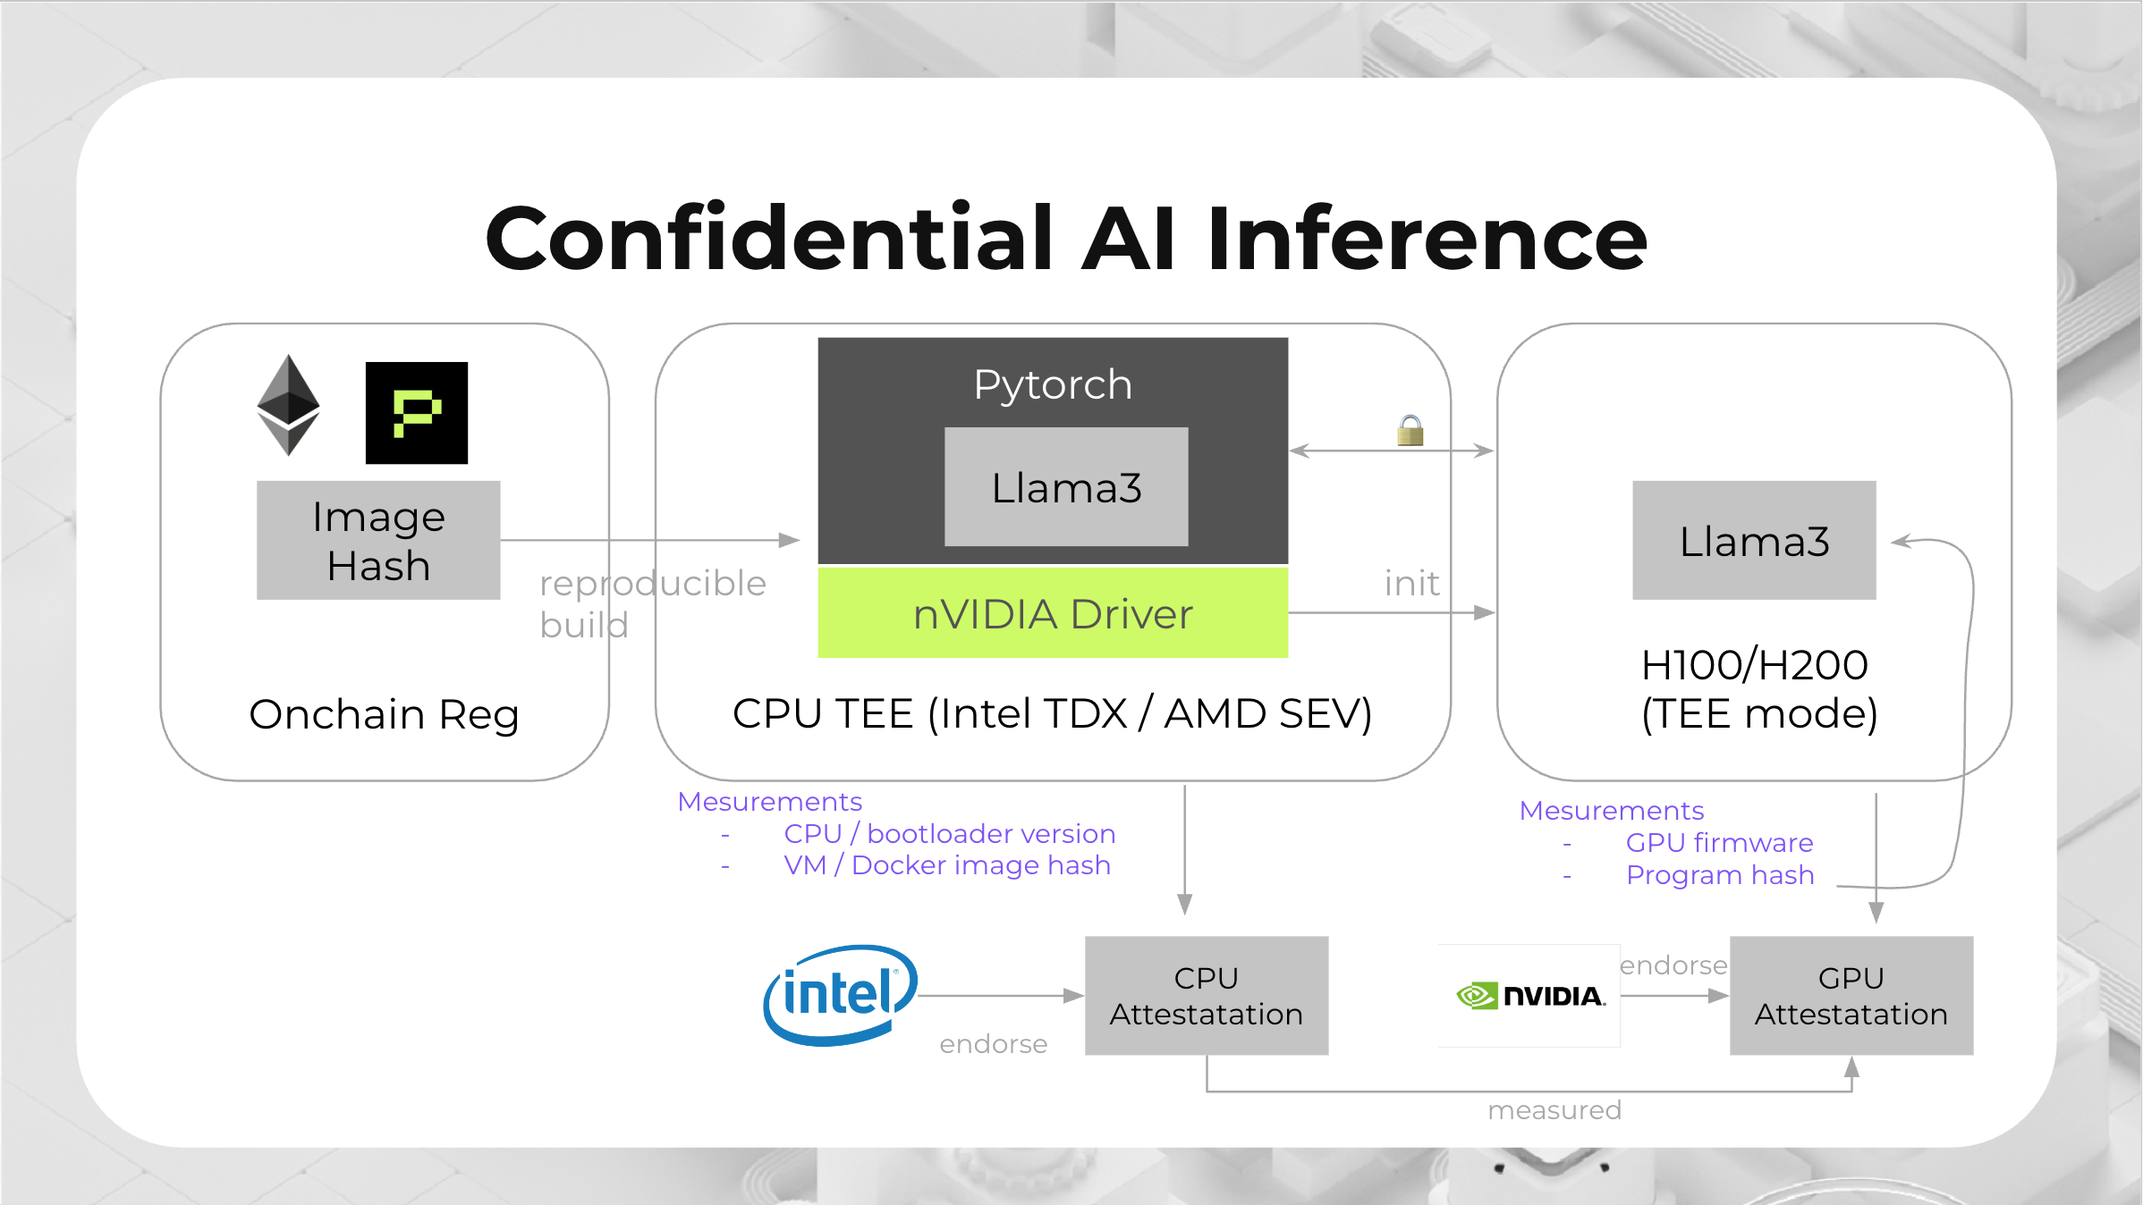
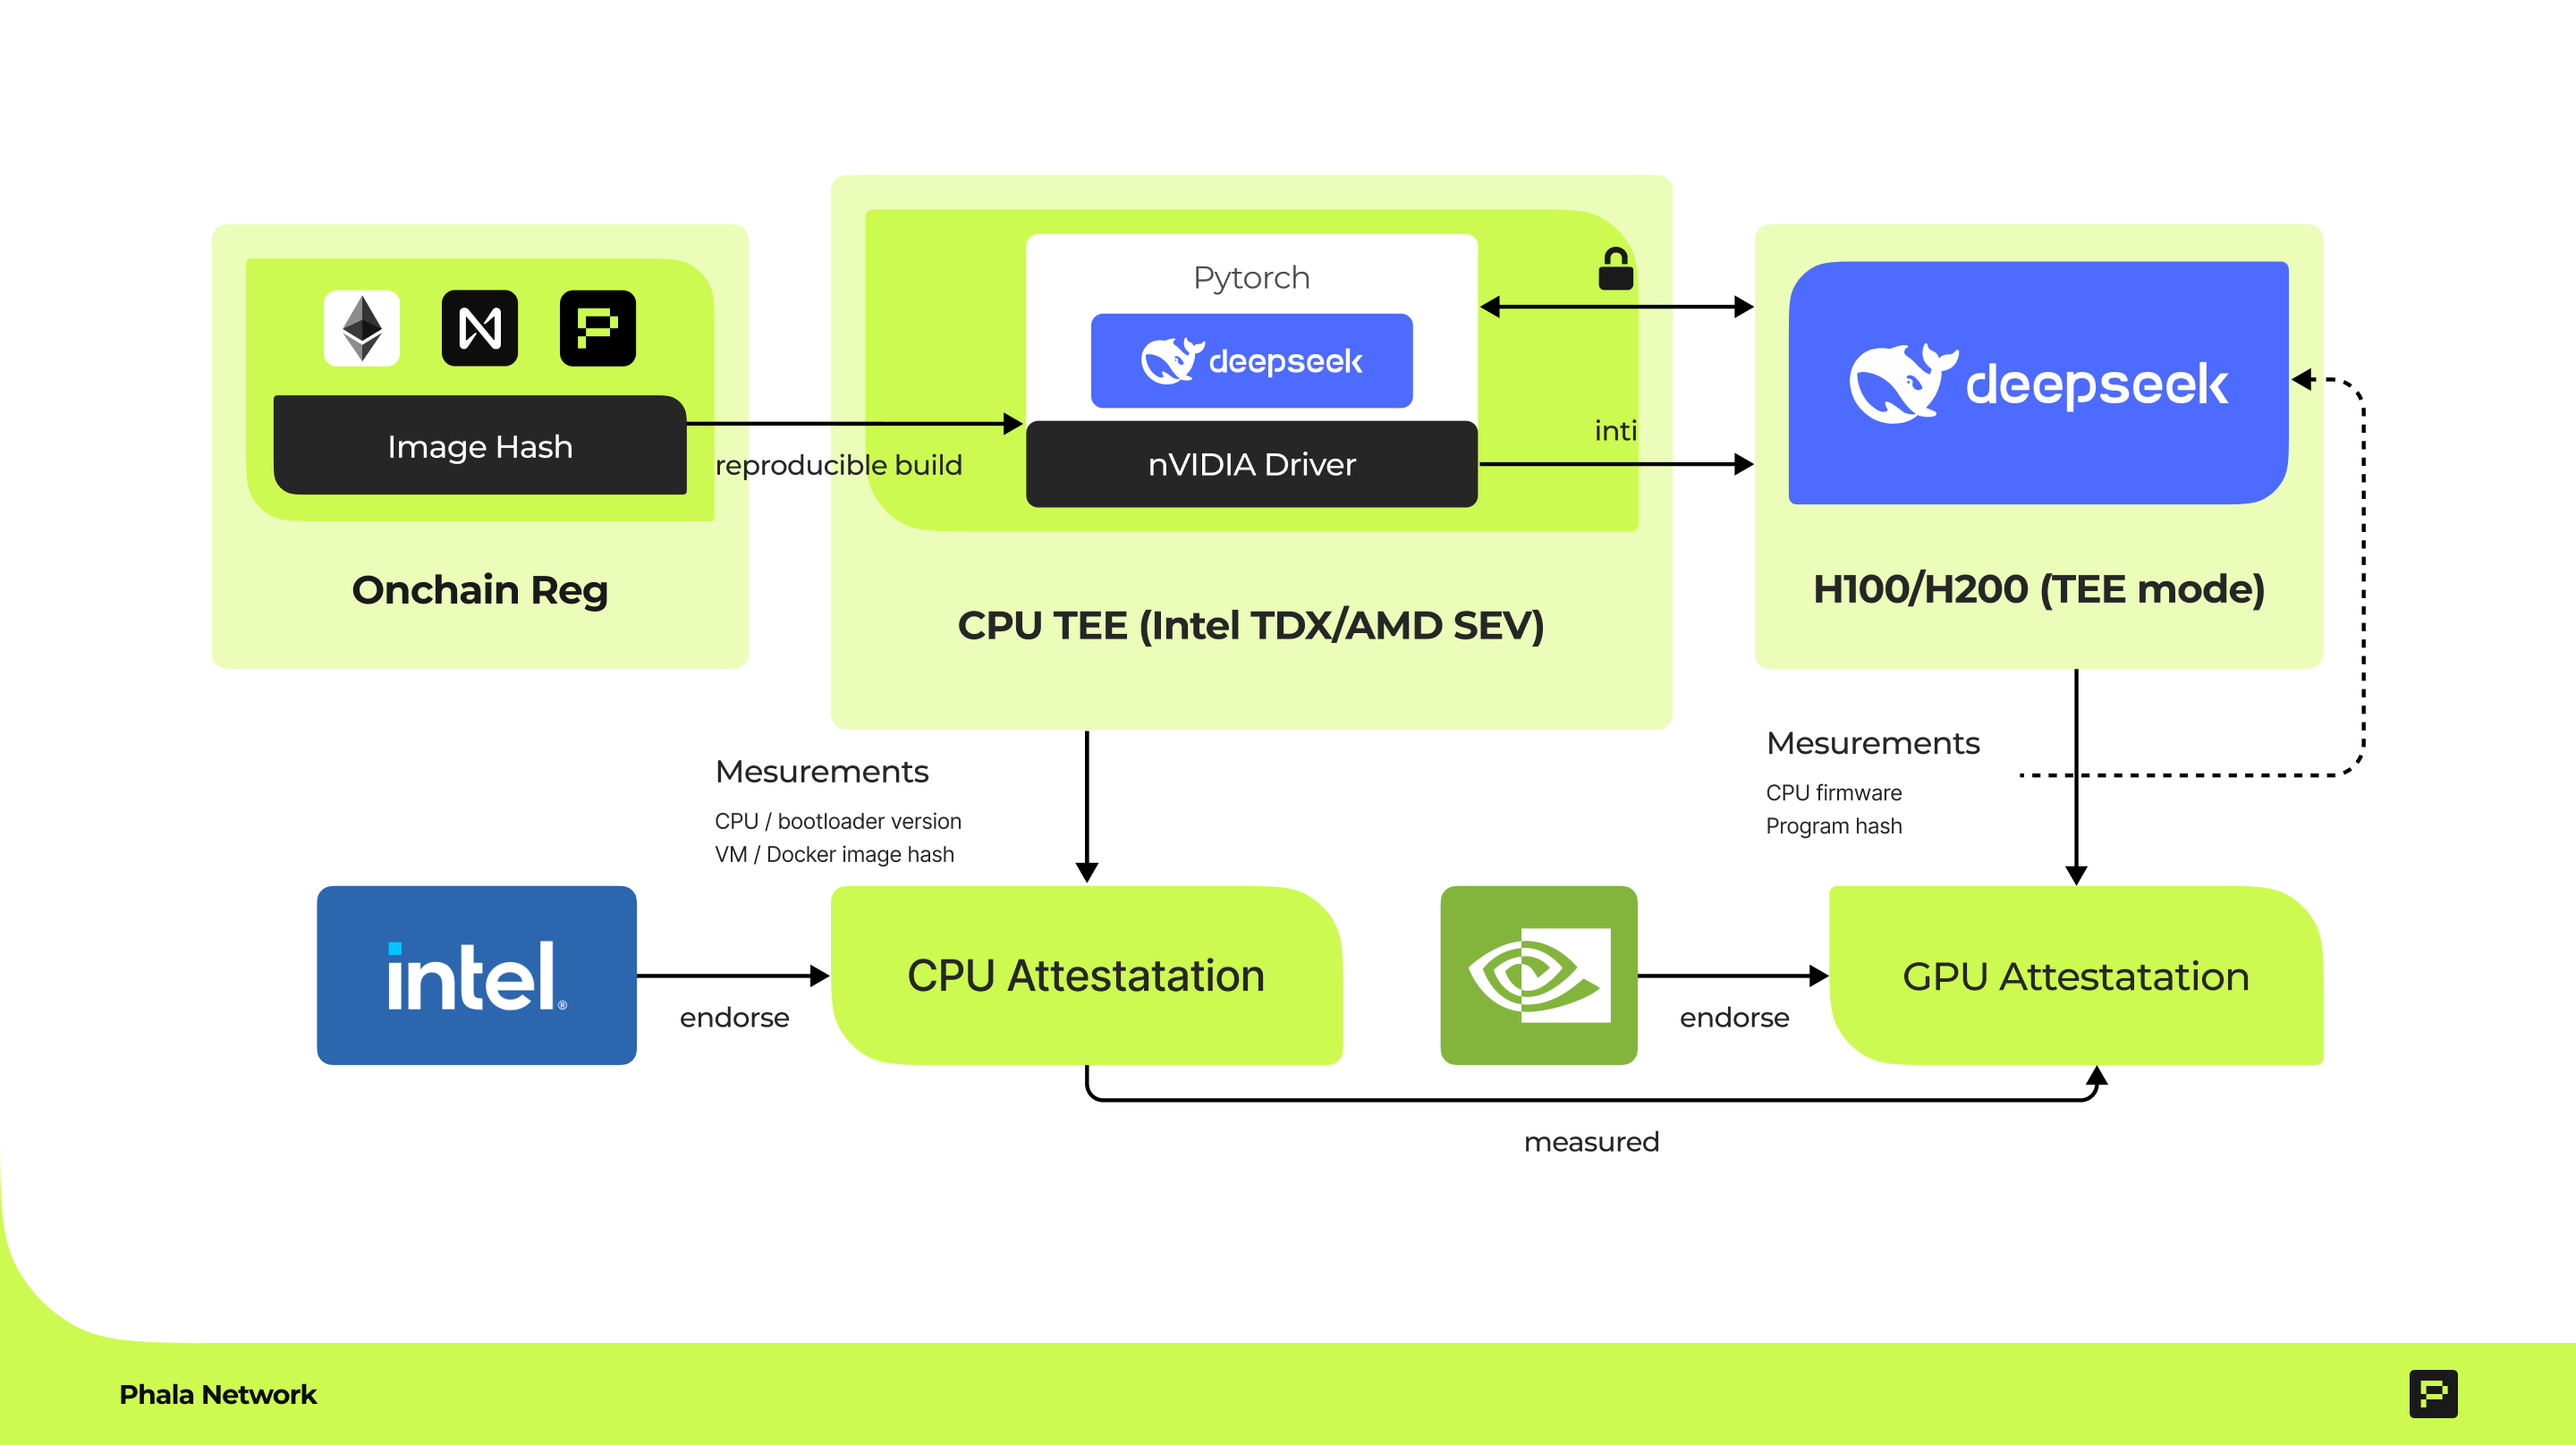
update

diff --git a/overview/phala-network/gpu-tee.md b/overview/phala-network/gpu-tee.md
@@ -12,7 +12,7 @@ TEE as a general hardware-based confidential computation infrastructure can offe
 - Verification using TEEs is also more economical compared to ZKPs. An ECDSA signature suffices for on-chain verification, reducing the complexity and cost of ensuring computation integrity.
 - Native Support by NVIDIA in the series of GPUs such as H100 and H200 natively support TEEs, providing hardware-accelerated secure environments for AI workloads. This native support ensures seamless integration and optimized performance for AI fine-tuning and inference.
 
-<figure><img src="../.gitbook/assets/confidential-ai-inference-overview.png" alt=""><figcaption></figcaption></figure>
+<figure><img src="../../.gitbook/assets/confidential-ai-inference-overview.png" alt=""><figcaption></figcaption></figure>
 
 Our TEE-based solution can provide following features for AI Inference:
 
@@ -20,6 +20,10 @@ Our TEE-based solution can provide following features for AI Inference:
 2. **Secure Execution Environment**: Both hardware and software must be protected against attacks. This involves leveraging TEE that provides isolated environments for secure computation.
 3. **Open Source and Reproducible Builds**: The entire software stack, from the operating system to the application code must be reproducible. This allows auditors to verify the integrity of the system.
 4. **Verifiable Execution Results**: The results of AI computations must be verifiable, ensuring that the outputs are trustworthy and have not been tampered with.
+
+## Study Cases
+
+<table data-card-size="large" data-view="cards"><thead><tr><th></th><th data-hidden data-card-target data-type="content-ref"></th><th data-hidden data-card-cover data-type="files"></th></tr></thead><tbody><tr><td><strong>Host DeepSeek-R1 in GPU TEE</strong></td><td><a href="https://phala.network/posts/absolute-0-ccp-use-deepseek-r1-with-gpu-tee-for-verified-ai-security">Blog Post</a></td><td><a href="../../.gitbook/assets/host-deepseek-r1-in-gpu-tee.png">host-deepseek-r1-in-gpu-tee.png</a></td></tr></tbody></table>
 
 ## What's Next?
 

diff --git a/README.md b/README.md
@@ -27,7 +27,7 @@ Phala Network is a next-generation **cloud platform** that provides a **low-cost
 
 ## Discover Phala Network
 
-<table data-card-size="large" data-view="cards" data-full-width="false"><thead><tr><th></th><th></th><th></th><th data-hidden data-card-target data-type="content-ref"></th><th data-hidden data-card-cover data-type="files"></th></tr></thead><tbody><tr><td><strong>⚡ Phala Network: Execution Layer for Web3 AI</strong></td><td></td><td></td><td><a href="overview/phala-network.md">phala-network.md</a></td><td><a href=".gitbook/assets/Phala-AI-Connect.png">Phala-AI-Connect.png</a></td></tr><tr><td>🛡 <strong>Host LLM in TEE</strong></td><td></td><td></td><td><a href="overview/phala-network/gpu-tee.md">multi-proof-and-verifiable-compute</a></td><td><a href=".gitbook/assets/private-ml-sdk.png">private-ml-sdk.png</a></td></tr></tbody></table>
+<table data-card-size="large" data-view="cards" data-full-width="false"><thead><tr><th></th><th></th><th></th><th data-hidden data-card-target data-type="content-ref"></th><th data-hidden data-card-cover data-type="files"></th></tr></thead><tbody><tr><td><strong>⚡ Phala Network: Execution Layer for Web3 AI</strong></td><td></td><td></td><td><a href="overview/phala-network.md">phala-network.md</a></td><td><a href=".gitbook/assets/Phala-AI-Connect.png">Phala-AI-Connect.png</a></td></tr><tr><td>🛡 <strong>Host LLM in TEE</strong></td><td></td><td></td><td><a href="overview/phala-network/gpu-tee.md">host-llm-in-tee</a></td><td><a href=".gitbook/assets/confidential-ai-inference-overview.png">private-ml-sdk.png</a></td></tr></tbody></table>
 
 ## Getting Started on Phala Cloud
 
